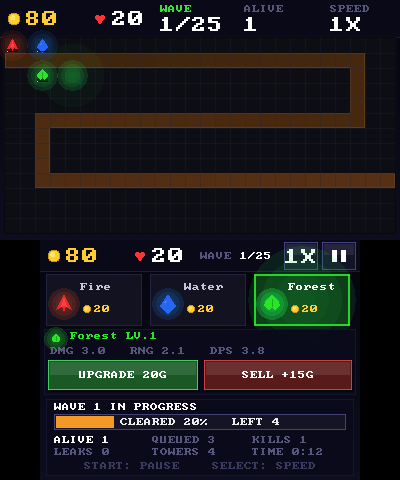
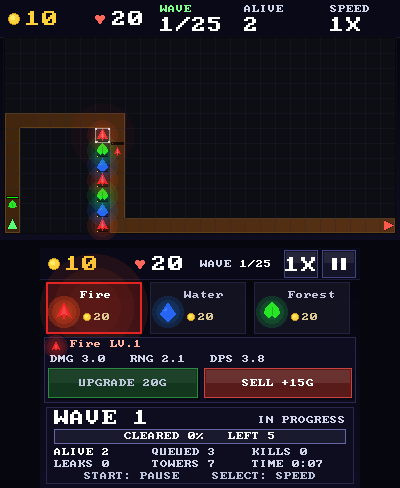
readme: maze building front and centre, new screenshots, v0.2 release notes

diff --git a/README.md b/README.md
@@ -14,8 +14,14 @@ The old attempt for posterity: [tower-defense-3ds-psvita-project-attempt](https:
 
 ## What the game is
 
-A grid tower defense on a 26x13 board. Creeps crawl along a fixed serpentine road from the left edge
-to the right, you build towers next to the road to stop them, and every kill pays for the next tower.
+A grid tower defense on a 26x13 board. Creeps crawl along a road from the left edge to the right, you
+build towers to stop them, and every kill pays for the next tower.
+
+The important bit: **you build on the road, not just next to it.** Every tower you drop on the path
+makes the creeps recalculate their route around it, so the game is about walling off the short way and
+forcing them through a long winding detour that keeps them in range of more towers. The route is a BFS
+shortest path and gets recomputed after every build and every sell; creeps already on the road follow
+the new route. Block the road completely and the game won't let you place the tower.
 
 Three elemental towers — **Fire**, **Water**, **Forest** — with a rock-paper-scissors damage table:
 
@@ -35,10 +41,11 @@ you can build as long as you like before calling the next one in.
 
 ## Screenshots
 
-Straight out of Azahar (top screen on top, touchscreen below). These are from the CI-built `.3dsx`, so
-they're what the release actually looks like.
+Top screen above, touchscreen below. The menu is a capture of the actual `.3dsx` running in Azahar;
+the two gameplay shots come from the game's PC preview harness, which renders through the same
+`game.h`/`gfx.h` frame code as the 3DS backend (so the layout is exactly what the console draws).
 
-| Menu | Build phase | Wave in progress |
+| Menu (in Azahar) | Build phase, roadway rerouted | Creeps walking the detour |
 |---|---|---|
 | ![menu](docs/screenshots/menu.png) | ![build phase](docs/screenshots/build.png) | ![combat](docs/screenshots/wave.png) |
 
@@ -64,11 +71,15 @@ Tapping a placed tower with your finger on the bottom screen isn't a thing yet (
 the top screen, which isn't touch) — the D-pad cursor is how you select one, or the panel shows the
 tower you placed most recently.
 
+Playing under an emulator (I use Azahar)? I map **WASD** to the d-pad, **U/H/J/K** to X/Y/B/A and
+**Q/I** to L/R there; Start/Select are M/N.
+
 ## Status
 
-Playable end to end: 25 waves, all three towers, upgrades, lives, game over, victory. It boots at a
-stable 60 fps in the Azahar emulator, which is where all my testing so far happened — real-hardware
-input and GPU output are the next thing I'll verify on the actual console. What's still missing:
+Playable end to end: maze building on the road, 25 waves, all three towers, upgrades, lives, game
+over, victory. It boots at a stable 60 fps in the Azahar emulator, which is where all my testing so far
+happened — real-hardware input and GPU output are the next thing I'll verify on the actual console.
+What's still missing:
 
 - [ ] sound effects and music (the audio layer is stubbed, the original `.wav`s are still around)
 - [ ] real-hardware playtest tuning — balance is currently the old LÖVE numbers on a hand-built road
